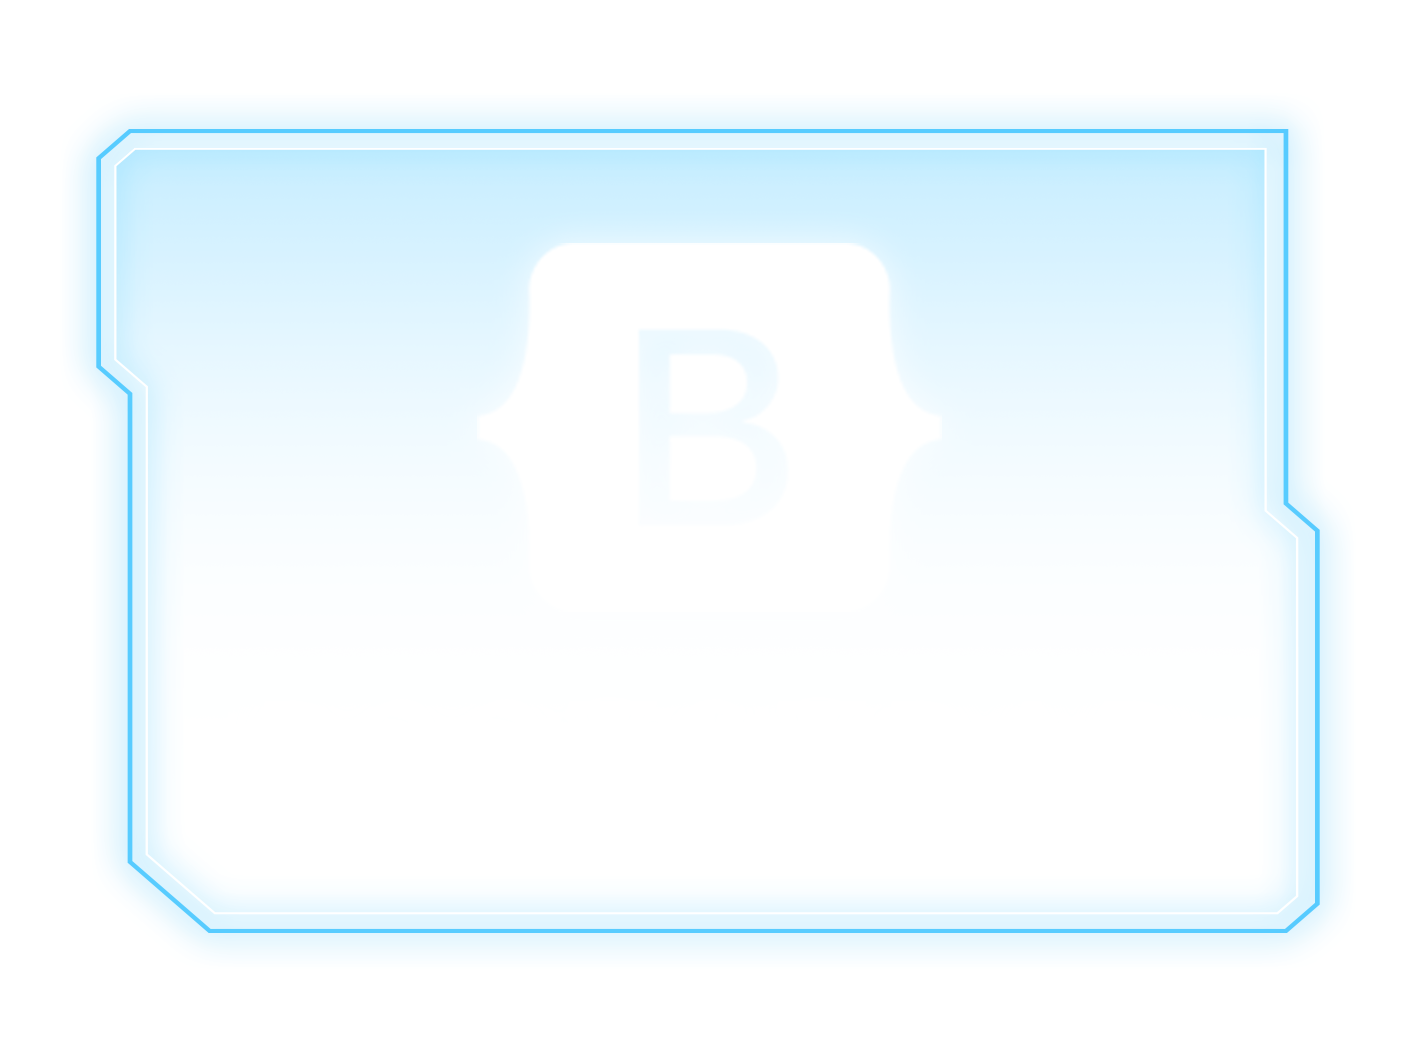
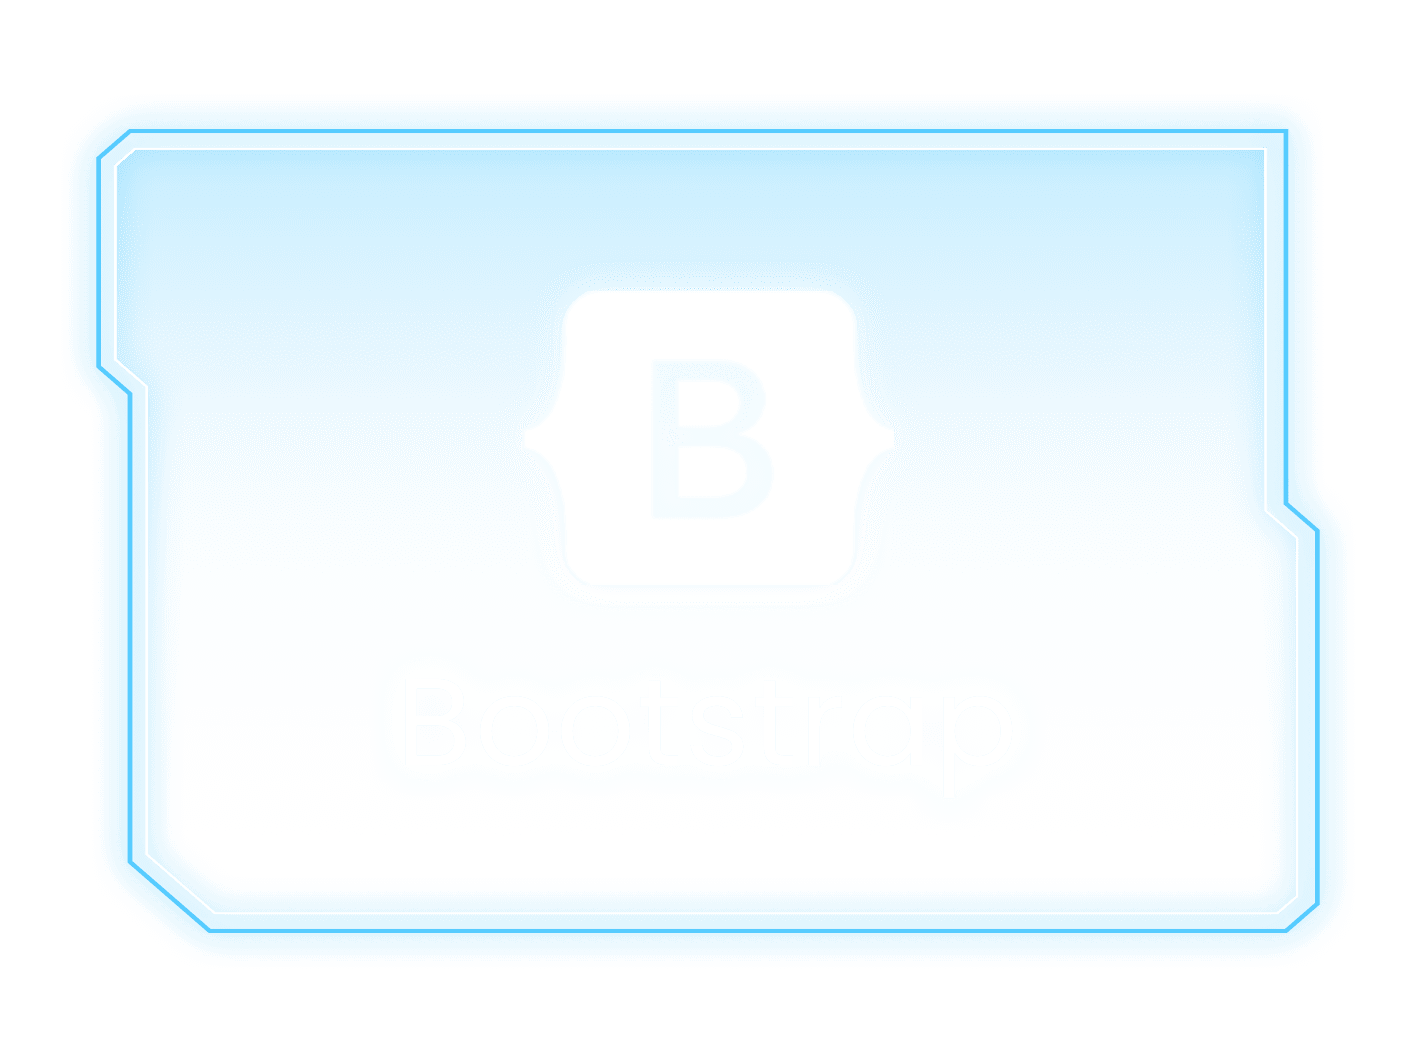
Add files via upload

Changed region(s): [[0.3729, 0.2175, 0.6525, 0.404]]

diff --git a/style.scss b/style.scss
@@ -19,7 +19,7 @@ $cor-secundaria: #55caff;
 	body{
 		justify-content: center;
 		align-items: center;
-		width: 100%;
+		width: auto;
 		height: 100vh;
 		background-color: #0c295e;
 		
@@ -150,7 +150,7 @@ $cor-secundaria: #55caff;
 		  }
 		  
 		  .slogan-2 {
-			animation: animated-text 4s steps(29,end) 5s 1 normal both,
+			animation: animated-text2 4s steps(29,end) 5s 1 normal both,
 		  }
 		  
 		  /* Animação de Texto */
@@ -159,9 +159,13 @@ $cor-secundaria: #55caff;
 			from{width: 0;}
 			to{width: 50%;}
 		  }
-		  
-		  /* Animação do cursor */
-		  
+	
+	
+		  @keyframes animated-text2{
+			from{width: 0;}
+			to{width: 50%;}
+		  }
+	
 	
 
 		  .my-img-container{

diff --git a/style.css b/style.css
@@ -12,7 +12,7 @@
 body {
   justify-content: center;
   align-items: center;
-  width: 100%;
+  width: auto;
   height: 100vh;
   background-color: #0c295e;
 }
@@ -128,7 +128,7 @@ header {
 }
 
 .slogan-2 {
-  animation: animated-text 4s steps(29, end) 5s 1 normal both;
+  animation: animated-text2 4s steps(29, end) 5s 1 normal both;
 }
 
 /* Animação de Texto */
@@ -140,7 +140,14 @@ header {
     width: 50%;
   }
 }
-/* Animação do cursor */
+@keyframes animated-text2 {
+  from {
+    width: 0;
+  }
+  to {
+    width: 50%;
+  }
+}
 .my-img-container {
   width: 100%;
   position: absolute;

diff --git a/responsive.css b/responsive.css
@@ -67,6 +67,14 @@
       width: 85%;
     }
   }
+  @keyframes animated-text2 {
+    from {
+      width: 0;
+    }
+    to {
+      width: 70%;
+    }
+  }
   .buttons-container {
     display: flex;
     top: 440px;

diff --git a/responsive.scss b/responsive.scss
@@ -79,6 +79,11 @@
   from{width: 0;}
   to{width: 85%;}
   }
+  @keyframes animated-text2{
+    from{width: 0;}
+    to{width: 70%;}
+    }
+
 
   .buttons-container{
   display: flex;
